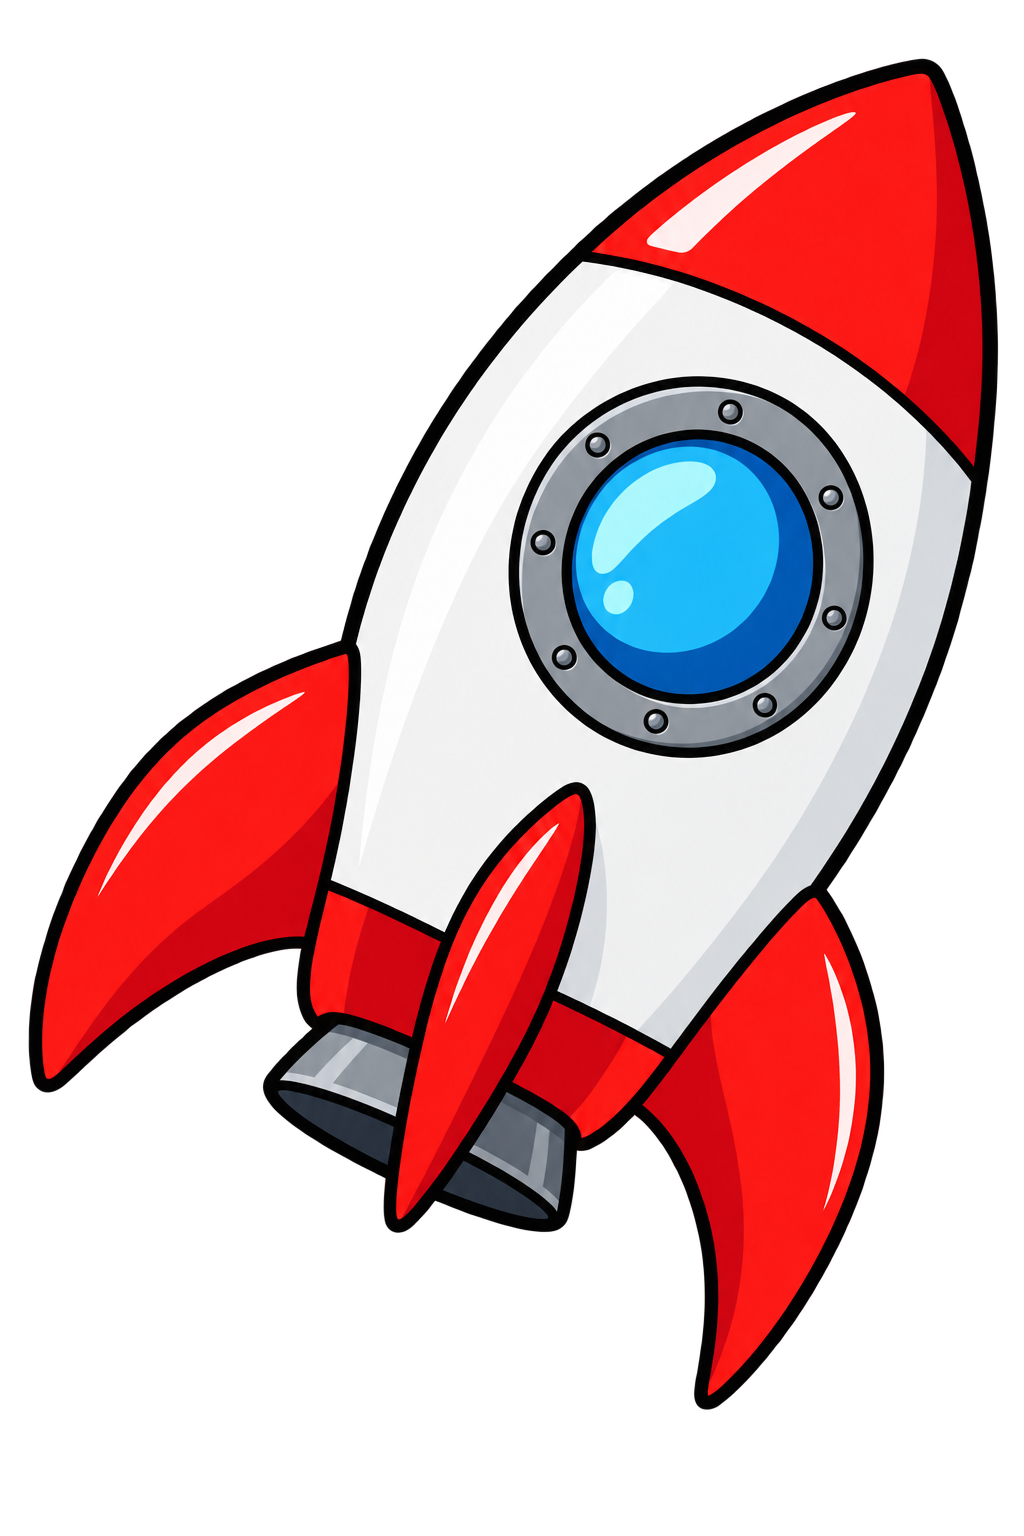
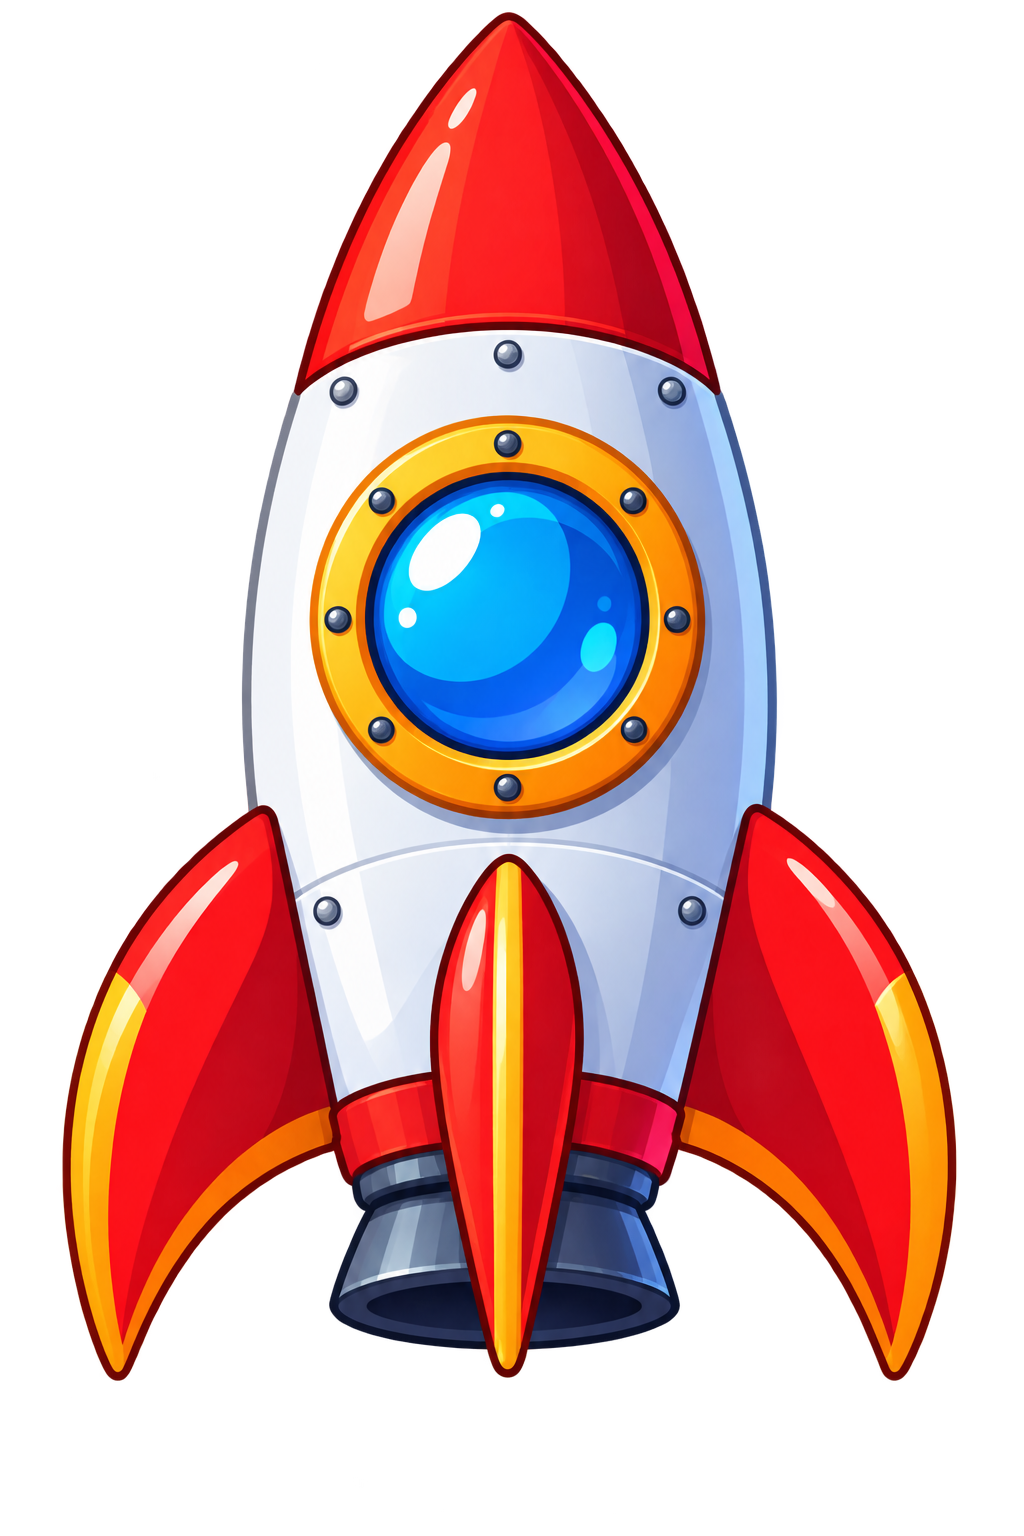
Initial commit

diff --git a/css/styles.css b/css/styles.css
@@ -12,7 +12,9 @@ body { overflow: hidden; }
 button, input, select { font: inherit; }
 button { cursor: pointer; }
 .hidden { display: none !important; }
-.app-shell { width: 100vw; height: 100vh; position: relative; overflow: hidden; background-image: linear-gradient(rgba(3,9,48,.05),rgba(3,9,48,.12)), url('../assets/space-background.png'); background-size: cover; background-position: center; }
+.app-shell { width: 100vw; height: 100vh; position: relative; overflow: hidden; background: #061344; }
+.app-shell::before { content: ""; position: absolute; inset: -10px; z-index: 0; background-image: linear-gradient(rgba(3,9,48,.08),rgba(3,9,48,.16)), url('../assets/space-background.png'); background-size: cover; background-position: center; filter: blur(3px); transform: scale(1.012); }
+.leaderboard-stage { position: absolute; inset: 0; z-index: 1; }
 .topbar { position: absolute; z-index: 30; top: 16px; left: 18px; right: 18px; display: flex; justify-content: space-between; align-items: center; pointer-events: none; }
 .topbar > * { pointer-events: auto; }
 .brand-chip, .glass-button, .connection-badge { border: 1px solid var(--glass-border); background: rgba(6, 18, 72, .72); backdrop-filter: blur(12px); box-shadow: 0 8px 24px rgba(0,0,0,.18); }
@@ -20,7 +22,6 @@ button { cursor: pointer; }
 .nav-actions { display: flex; gap: 8px; }
 .glass-button { color: #fff; border-radius: 12px; padding: 10px 14px; font-weight: 800; }
 .glass-button:hover { transform: translateY(-1px); background: rgba(26,52,130,.85); }
-.leaderboard-stage { position: absolute; inset: 0; }
 .half-wrap { position: absolute; top: 56px; left: 50%; transform: translateX(-50%); z-index: 20; text-align: center; }
 .half-wrap h1 { margin: 6px 0 0; font-size: clamp(30px,4vw,58px); letter-spacing: .07em; text-shadow: 0 4px 0 rgba(0,0,0,.2), 0 0 20px rgba(70,190,255,.75); }
 .connection-badge { display: inline-block; padding: 5px 10px; border-radius: 999px; font-size: 12px; font-weight: 800; }
@@ -33,7 +34,7 @@ button { cursor: pointer; }
 .rocket-boost.boost-small { animation: boostSmall .7s ease-out; }
 .rocket-boost.boost-medium { animation: boostMedium .8s ease-out; }
 .rocket-boost.boost-large { animation: boostLarge .9s ease-out; }
-.rocket-image { width: 100%; display: block; filter: hue-rotate(var(--hue,0deg)) saturate(1.08); position: relative; z-index: 3; }
+.rocket-image { width: 100%; display: block; position: relative; z-index: 3; filter: drop-shadow(0 8px 10px rgba(0,0,0,.28)); }
 .flame-image { position: absolute; z-index: 1; width: 42%; left: 50%; top: 78%; transform: translateX(-50%); transform-origin: 50% 5%; animation: flamePulse .22s ease-in-out infinite alternate; filter: drop-shadow(0 0 10px #ffcf28); }
 .boost-small .flame-image { animation: flameBoostSmall .7s ease-out, flamePulse .18s .7s ease-in-out infinite alternate; }
 .boost-medium .flame-image { animation: flameBoostMedium .8s ease-out, flamePulse .16s .8s ease-in-out infinite alternate; }
@@ -43,9 +44,9 @@ button { cursor: pointer; }
 .team-score { font-size: clamp(18px,2vw,30px); color: var(--accent); }
 .score-hidden { color: #fff; letter-spacing: .08em; }
 .timer { position: absolute; z-index: 20; left: 24px; bottom: 20px; min-width: 150px; padding: 12px 18px; border-radius: 18px; background: rgba(0,0,0,.6); border: 2px solid rgba(255,255,255,.4); font-size: clamp(34px,4vw,60px); line-height: 1; font-weight: 950; font-variant-numeric: tabular-nums; text-shadow: 0 0 14px #56d6ff; }
-.surge-announcement { position: absolute; z-index: 26; top: 18%; left: 50%; transform: translateX(-50%); text-align: center; padding: 16px 28px; border-radius: 22px; border: 3px solid #fff5a5; background: linear-gradient(135deg,rgba(255,105,0,.93),rgba(255,221,40,.95)); color: #351300; box-shadow: 0 0 35px #ffb000, 0 10px 30px rgba(0,0,0,.35); animation: surgePop .6s cubic-bezier(.2,1.4,.3,1); }
-.surge-kicker { font-size: clamp(22px,3vw,44px); font-weight: 1000; }
-.surge-room { margin-top: 2px; font-size: clamp(18px,2vw,34px); font-weight: 950; letter-spacing: .1em; }
+.surge-announcement { position: fixed; z-index: 70; inset: -14px; display: flex; flex-direction: column; align-items: center; justify-content: center; text-align: center; padding: 48px; border: 10px solid #fff5a5; background: radial-gradient(circle at center,rgba(255,246,82,.98) 0%,rgba(255,163,0,.98) 40%,rgba(232,54,0,.99) 100%); color: #351300; box-shadow: inset 0 0 100px rgba(255,255,255,.4), 0 0 80px #ffb000; pointer-events: none; animation: surgeScreenShake .12s linear infinite; transform-origin: center; }
+.surge-kicker { font-size: clamp(64px,10vw,170px); line-height: .9; font-weight: 1000; text-shadow: 0 5px 0 rgba(255,255,255,.45), 0 10px 20px rgba(80,20,0,.28); }
+.surge-room { margin-top: 28px; font-size: clamp(46px,7vw,120px); line-height: 1; font-weight: 1000; letter-spacing: .1em; text-shadow: 0 4px 0 rgba(255,255,255,.35); }
 .setup-notice { position: fixed; z-index: 100; left: 50%; top: 50%; transform: translate(-50%,-50%); max-width: 620px; padding: 22px; border-radius: 18px; background: #fff; color: #171717; box-shadow: 0 20px 80px rgba(0,0,0,.55); }
 .modal-backdrop { position: fixed; z-index: 80; inset: 0; background: rgba(0,0,25,.7); backdrop-filter: blur(5px); }
 .modal { position: fixed; z-index: 90; left: 50%; top: 50%; transform: translate(-50%,-50%); width: min(92vw,520px); max-height: 88vh; overflow: auto; padding: 26px; border-radius: 22px; background: #0d1950; border: 1px solid rgba(255,255,255,.22); box-shadow: 0 30px 100px rgba(0,0,0,.55); }
@@ -91,7 +92,14 @@ body.fullscreen-active .management-control { display: none !important; }
 @keyframes flameBoostSmall { 35%{transform:translateX(-50%) scaleY(1.35) scaleX(1.08)} }
 @keyframes flameBoostMedium { 35%{transform:translateX(-50%) scaleY(1.65) scaleX(1.12)} }
 @keyframes flameBoostLarge { 35%{transform:translateX(-50%) scaleY(2.05) scaleX(1.18)} }
-@keyframes surgePop { 0%{opacity:0;transform:translateX(-50%) scale(.4) rotate(-4deg)} 70%{transform:translateX(-50%) scale(1.08) rotate(2deg)} 100%{opacity:1;transform:translateX(-50%) scale(1) rotate(0)} }
+@keyframes surgeScreenShake {
+  0%   { transform: translate(0,0) rotate(0deg) scale(1.01); }
+  20%  { transform: translate(-5px,3px) rotate(-.18deg) scale(1.01); }
+  40%  { transform: translate(4px,-4px) rotate(.18deg) scale(1.01); }
+  60%  { transform: translate(-3px,-2px) rotate(-.12deg) scale(1.01); }
+  80%  { transform: translate(5px,4px) rotate(.12deg) scale(1.01); }
+  100% { transform: translate(0,0) rotate(0deg) scale(1.01); }
+}
 @media (max-width: 800px) {
   .rocket-field { left: 8%; right: 8%; }
   .topbar { top: 8px; left: 8px; right: 8px; }

diff --git a/js/app.js b/js/app.js
@@ -43,7 +43,6 @@ let initialLoadDone = false;
 let toastTimer = null;
 
 const lanePositions = [7.5, 24.5, 41.5, 58.5, 75.5, 92.5];
-const hueRotations = [0, 48, 105, 165, 225, 285];
 
 function toast(message) {
   els.toast.textContent = message;
@@ -86,7 +85,7 @@ function teamVisible(team) {
 function rocketMarkup(team, i) {
   const visible = teamVisible(team);
   const height = rankHeight(team, state.teams, state.settings?.scores_hidden);
-  return `<div class="rocket-position" id="rocket-${team.id}" style="left:${lanePositions[i] ?? 50}%;--rest:${height}%;--hue:${hueRotations[i] ?? 0}deg;--bob-delay:${(-i*.31).toFixed(2)}s">
+  return `<div class="rocket-position" id="rocket-${team.id}" style="left:${lanePositions[i] ?? 50}%;--rest:${height}%;--bob-delay:${(-i*.31).toFixed(2)}s">
     <div class="rocket-bob"><div class="rocket-boost" id="boost-${team.id}">
       <img class="flame-image" src="./assets/flame.png" alt="" />
       <img class="rocket-image" src="./assets/rocket.png" alt="${escapeHtml(team.name)} rocket" />
@@ -114,7 +113,6 @@ function renderRockets({ previousScores = new Map(), animateTeamId = null, delta
     }
     const visible = teamVisible(team);
     pos.style.left = `${lanePositions[i] ?? 50}%`;
-    pos.style.setProperty('--hue', `${hueRotations[i] ?? 0}deg`);
     pos.querySelector('.team-name').textContent = team.name;
     const scoreEl = pos.querySelector('.team-score');
     scoreEl.textContent = visible ? team.score : '???';

diff --git a/README copy.md b/README copy.md
@@ -1,0 +1,45 @@
+# KDC Space Leaderboard
+
+A static GitHub Pages leaderboard backed by Supabase Auth, Postgres, Row Level Security, and Realtime.
+
+## Included
+- 6 animated rocket teams using the supplied rocket + flame artwork
+- space background artwork
+- live score/rank movement with equal scores at equal heights
+- resting bob animation independent of rank position
+- point-size boost animation
+- Half 1 / Half 2
+- persistent countdown timer
+- hide scores / individual reveal / reveal all
+- Point Surge for 3 renameable rooms
+- Admin and Points Master roles
+- server-enforced score increments
+- reset function
+- fullscreen presentation mode
+- Realtime synchronization
+- persistence across refreshes
+
+## Important security design
+The browser contains only a Supabase **publishable key**. Direct database writes are revoked. Score and admin changes are performed through Postgres RPC functions that verify the signed-in user's role in `user_roles` before changing anything. Never put a Supabase secret key or legacy `service_role` key in this repository.
+
+## Quick local preview
+After configuring Supabase and `js/config.js`, run from this folder:
+
+```bash
+python3 -m http.server 8000
+```
+
+Then open `http://localhost:8000`.
+
+Do not double-click `index.html` and use a `file://` URL; the app uses JavaScript modules and should be served over HTTP/HTTPS.
+
+## Supabase setup
+1. Create a Supabase project.
+2. Open SQL Editor and run `supabase/setup.sql`.
+3. Create the Admin and Points Master users under Authentication -> Users.
+4. Edit `supabase/assign-roles.sql` with their exact emails and run it.
+5. Copy the Project URL and **publishable key** into `js/config.js`.
+6. Test locally.
+7. Push this folder to a GitHub repository and enable GitHub Pages from the `main` branch `/ (root)`.
+
+See the chat instructions for the detailed walkthrough.
